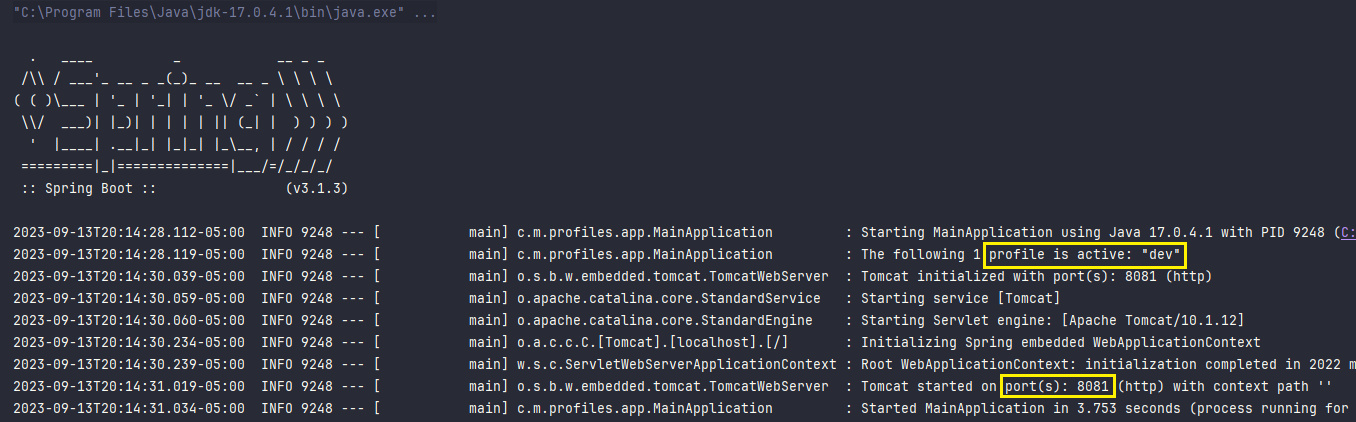
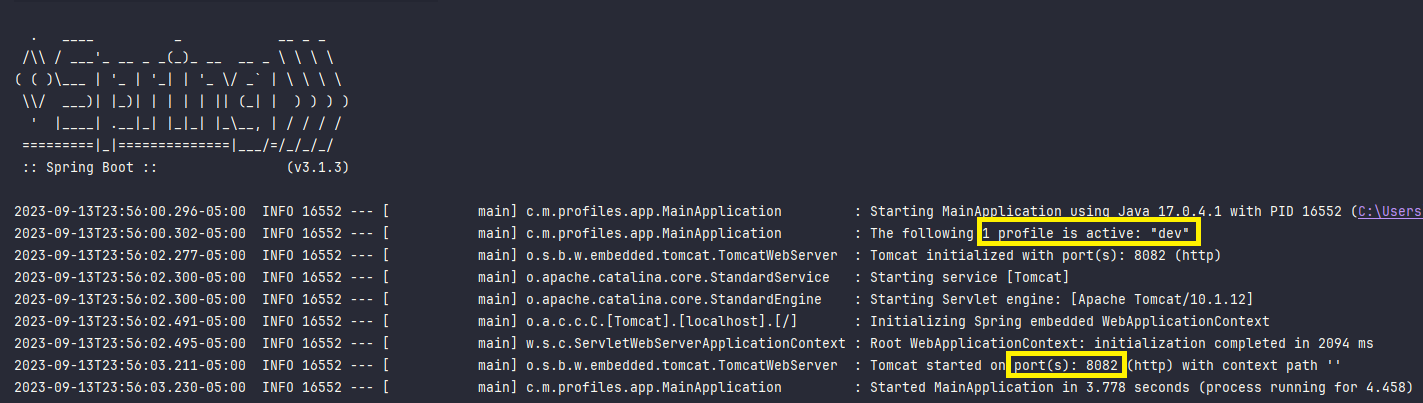
Ejecutnado perfil prod

diff --git a/src/main/java/com/magadiflo/profiles/app/controllers/ProductController.java b/src/main/java/com/magadiflo/profiles/app/controllers/ProductController.java
@@ -14,12 +14,20 @@ public class ProductController {
 
     @Value("${server.port}")
     private Integer port;
+    @Value("${app.info}")
+    private String info;
+    @Value("${app.parametro}")
+    private String parameter;
+    @Value("${base.datos.fuente.url}")
+    private String url;
 
     @GetMapping
     public Map<String, Object> showMessage() {
         Map<String, Object> response = new HashMap<>();
-        response.put("saludo", "Hola Mundo");
-        response.put("puerto", port);
+        response.put("port", port);
+        response.put("info", info);
+        response.put("parameter", parameter);
+        response.put("url", url);
 
         return response;
     }

diff --git a/README.md b/README.md
@@ -14,16 +14,21 @@ el archivo `application.yml` también será el perfil predeterminado. `El perfil
 
 Si una propiedad se define en el perfil predeterminado, pero no en el perfil prod, el valor de la propiedad se rellenará
 a partir del perfil predeterminado. Esto es muy útil para definir valores predeterminados que son válidos en todos los
-perfiles. Por lo tanto, **debemos mantener todas las propiedades en el perfil predeterminado
-** (`application.properties`) que son **comunes en todos los perfiles**.
+perfiles. Por lo tanto, **debemos mantener todas las propiedades en el perfil predeterminado**
+(`application.properties`) que son **comunes en todos los perfiles**.
 
 **Perfil por default:** `application.properties`
 
 ````properties
+spring.application.name=Perfiles en Spring
 server.port=8081
+spring.profiles.active=dev
+app.info=Este es el archivo de propiedades por default
+app.parametro=${APP_PARAMETER}
 ````
 
-Si ejecutamos, tan solo teniendo el perfil por defecto `application.properties` en la aplicación, veremos lo siguiente:
+Si ejecutamos, tan solo teniendo el perfil por defecto `application.properties` en la aplicación, es decir no tenemos
+ningún otro archivo de perfil adicional, veremos lo siguiente:
 
 ![perfil default](./assets/perfil-default.png)
 
@@ -51,13 +56,13 @@ src/main/resources/
 Debemos **tener en cuenta la convención de la nomenclatura**. A continuación se muestra para los dos tipos de archivos
 `.properties` y `.yml`:
 
-> `application-<entorno>.properties`
+> `application-{entorno}.properties`
 >
-> `application-<entorno>.yml`
+> `application-{entorno}.yml`
 
 **DONDE**
 
-El `<entorno>` puede tomar cualquier nombre, en mi caso nombré a los entornos: `dev`, `prod` y `test`.
+El `{entorno}` puede tomar cualquier nombre, en mi caso nombré a los entornos: `dev`, `prod` y `test`.
 
 Ahora, insertemos algunas propiedades de configuración en estos archivos. Por ejemplo, agregaremos configuraciones
 de bases de datos que son diferentes en cada archivo `(estas configuraciones serán a modo de prueba, no son
@@ -67,6 +72,7 @@ Oracle DB para producción:
 **Perfil development:** `application-dev.properties`
 
 ````properties
+server.port=8082
 app.info=Este es el archivo de propiedades del entorno dev
 base.datos.h2.console.enabled=true
 base.datos.h2.console.path=/h2
@@ -74,11 +80,13 @@ base.datos.fuente.driver-class-name=org.h2.Driver
 base.datos.fuente.url=jdbc:h2:mem:db
 base.datos.fuente.usuario=sa
 base.datos.fuente.password=sa
+APP_PARAMETER=Enviado desde Development
 ````
 
 **Perfil test:** `application-test.properties`
 
 ````properties
+server.port=8083
 app.info=Este es el archivo de propiedades del entorno test
 base.datos.fuente.url=jdbc:mysql://localhost:3306/myTestDB
 base.datos.fuente.usuario=root
@@ -86,11 +94,13 @@ base.datos.fuente.password=123
 base.datos.fuente.driver-class-name=com.mysql.cj.jdbc.Driver
 base.datos.jpa.hibernate.ddl-auto=update
 base.datos.jpa.properties.hibernate.dialect=org.hibernate.dialect.MySQL5Dialect
+APP_PARAMETER=Enviado desde Test
 ````
 
 **Perfil production:** `application-prod.properties`
 
 ````properties
+server.port=8084
 app.message=Este es el archivo de propiedades del entorno prod
 base.datos.fuente.url=jdbc:oracle:thin:@localhost:1521:xe
 base.datos.fuente.usuario=username
@@ -99,6 +109,7 @@ base.datos.jpa.hibernate.ddl-auto=update
 base.datos.jpa.show-sql=true
 base.datos.fuente.driver-class-name=oracle.jdbc.OracleDriver
 base.datos.jpa.properties.hibernate.dialect=org.hibernate.dialect.Oracle10gDialect
+APP_PARAMETER=Enviado desde Production
 ````
 
 Si no implementamos perfiles, tendremos que acomodar todas las entradas anteriores en un solo archivo
@@ -123,16 +134,18 @@ spring.application.name=Perfiles en Spring
 server.port=8081
 spring.profiles.active=dev
 app.info=Este es el archivo de propiedades por default
+app.parametro=${APP_PARAMETER}
 ````
 
 En el código anterior, el valor de la propiedad `spring.profiles.active` **indica a Spring qué perfil usar**.
 Aquí hemos establecido el perfil de desarrollo como activo. **Este es el enfoque más comúnmente utilizado para hacer
 que un perfil particular sea activo.**
 
-**¡Importante!**, el valor de la configuración `spring.profiles.active` tiene que ser el nombre del `<entorno>` que le
+**¡Importante!**, el valor de la configuración `spring.profiles.active` tiene que ser el nombre del `{entorno}` que le
 dimos al archivo de propiedades.
 
-Si ejecutamos la aplicación, ahora veremos que Spring selecciona el perfil que fue configurado: `dev`.
+Si ejecutamos la aplicación, ahora veremos que Spring selecciona el perfil que fue configurado `dev` con su puerto
+`8082`:
 
 ![perfil dev](./assets/perfil-dev.png)
 
@@ -164,3 +177,31 @@ priorizará los enfoques en el siguiente orden:
 3. Configurando el parámetro del sistema JVM
 4. Configurando perfiles activos en el pom.xml
 
+## Ejecutando perfil
+
+A modo de ejemplo **ejecutaremos el perfil de producción** para ver qué valores están tomando las propiedades:
+
+- Primero debemos configurar en el `application.properties` el perfil activo en `prod`:
+  > spring.profiles.active=prod
+- Ejecutamos la aplicación:
+
+  ![perfil-prod](./assets/perfil-prod.png)
+
+- Creamos un controlador que nos está retornando información de las propiedades del perfil:
+
+    ````bash
+    curl -v http://localhost:8084/api/v1/products | jq
+    
+    >
+    < HTTP/1.1 200
+    {
+      "port": 8084,
+      "parameter": "Enviado desde Production",
+      "url": "jdbc:oracle:thin:@localhost:1521:xe",
+      "info": "Este es el archivo de propiedades por default"
+    }
+    ````
+  
+Como observamos, el perfil `prod` se ha seleccionado correctamente, incluso vemos que no tenemos la propiedad 
+`app.info` en este perfil, pero sí lo tenemos en el perfil por default `application.properties`, por lo tanto, el valor
+lo tomará de este perfil por default.
